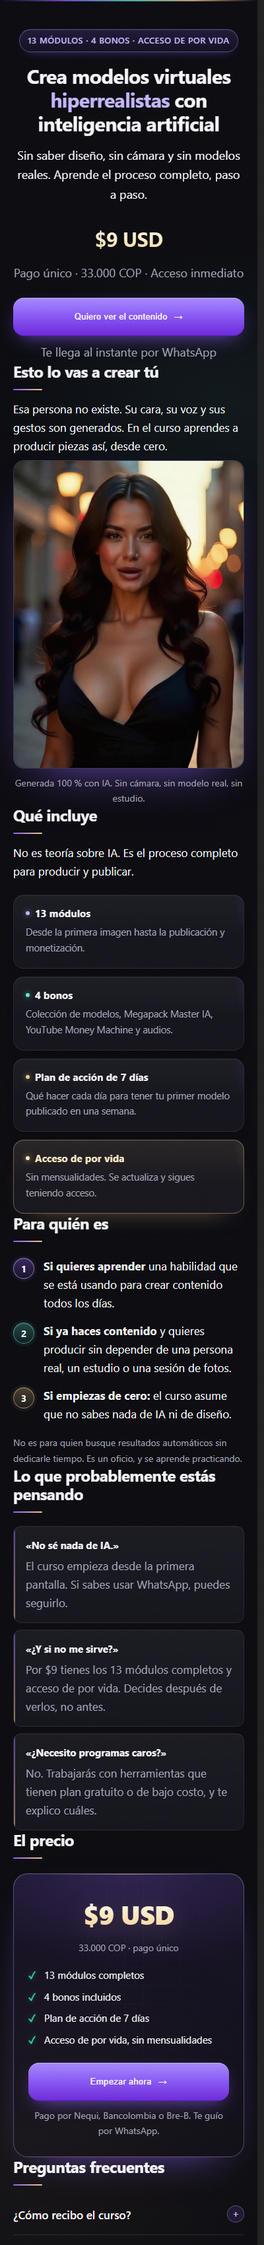
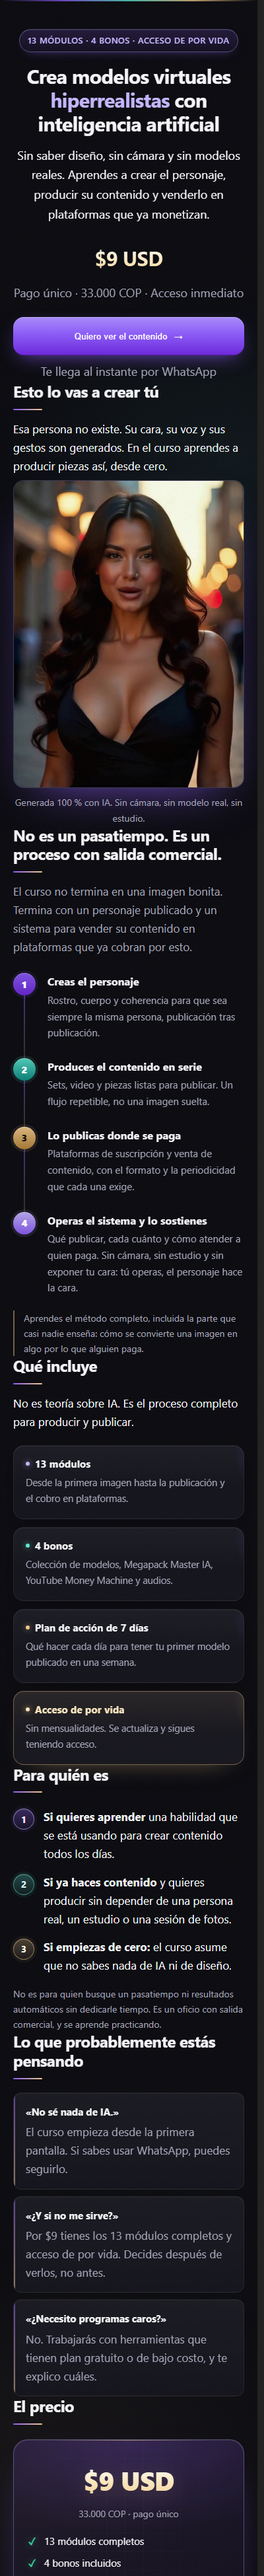
landing: la oferta dice qué se hace con lo aprendido
El mensaje anterior vendía una habilidad ('crea modelos hiperrealistas'). Faltaba el
destino: qué se hace con eso. Ahora la página lo dice en cuatro pasos y sin prometer
ingresos.

- titular: 'aprendes a crear el personaje, producir su contenido y venderlo en
  plataformas que ya monetizan'
- sección nueva: 'No es un pasatiempo. Es un proceso con salida comercial', con el
  pipeline personaje -> contenido en serie -> publicación -> operación, y un hilo
  vertical que los une porque son un proceso, no cuatro ideas
- 'Para quién es': se añade que no es para quien busque un pasatiempo
- precio: se enumera 'módulos de publicación y monetización incluidos'
- FAQ nuevas: '¿esto me va a generar ingresos?' (con 'no garantizamos ingresos', que
  es lo que exige la Ley 1480) y '¿tengo que mostrar mi cara?'
- metadatos alineados con el mensaje

7 aserciones nuevas para que el copy no se pierda en un rediseño. 38 suites, 1869
aserciones, 0 fallas.

diff --git a/next/landing/index.html b/next/landing/index.html
@@ -4,9 +4,9 @@
 <meta charset="utf-8">
 <meta name="viewport" content="width=device-width, initial-scale=1">
 <title>Modelos IA — crea modelos virtuales hiperrealistas con IA</title>
-<meta name="description" content="Aprende a crear modelos virtuales hiperrealistas con inteligencia artificial: 13 módulos, 4 bonos y plan de acción de 7 días. Acceso de por vida.">
+<meta name="description" content="Aprende a crear modelos virtuales con IA y a vender su contenido en plataformas que monetizan. 13 módulos, 4 bonos y plan de acción de 7 días.">
 <meta property="og:title" content="Modelos IA — crea modelos virtuales hiperrealistas con IA">
-<meta property="og:description" content="13 módulos, 4 bonos y un plan de acción de 7 días. Acceso de por vida.">
+<meta property="og:description" content="Del personaje al cobro: crea el modelo, produce el contenido y publícalo donde se paga. 13 módulos y 4 bonos.">
 <meta property="og:type" content="website">
 <meta name="theme-color" content="#0b0b10">
 <style>
@@ -138,6 +138,33 @@ p.fuerte{color:var(--texto)}
 }
 .paso p{color:var(--texto)}
 
+/* ---- pipeline comercial ---- */
+.pipeline{list-style:none;counter-reset:lin;display:grid;gap:0;margin-top:26px;position:relative}
+.pipeline li{
+  position:relative;padding:0 0 26px 52px;counter-increment:lin;
+}
+/* Hilo vertical que une los cuatro pasos: un solo proceso, no cuatro ideas. */
+.pipeline li::before{
+  content:counter(lin);position:absolute;left:0;top:0;
+  width:34px;height:34px;border-radius:50%;display:grid;place-items:center;
+  font-weight:800;font-size:14px;color:#fff;z-index:1;
+  background:linear-gradient(180deg,rgba(139,92,246,.9),rgba(109,40,217,.9));
+  box-shadow:0 0 0 4px rgba(139,92,246,.10), inset 0 1px 0 rgba(255,255,255,.25);
+}
+.pipeline li::after{
+  content:"";position:absolute;left:16px;top:34px;bottom:0;width:2px;
+  background:linear-gradient(180deg,rgba(139,92,246,.45),rgba(240,201,138,.18));
+}
+.pipeline li:last-child{padding-bottom:0}
+.pipeline li:last-child::after{display:none}
+.pipeline strong{display:block;font-size:16px;letter-spacing:.01em;margin-bottom:2px}
+.pipeline p{font-size:15px;margin:0}
+/* El color avanza con el proceso: violeta → cian → oro. */
+.pipeline li:nth-child(2)::before{background:linear-gradient(180deg,rgba(94,234,212,.85),rgba(13,148,136,.85));box-shadow:0 0 0 4px rgba(94,234,212,.10), inset 0 1px 0 rgba(255,255,255,.25)}
+.pipeline li:nth-child(3)::before{background:linear-gradient(180deg,rgba(240,201,138,.9),rgba(180,131,60,.9));color:#1a1206;box-shadow:0 0 0 4px rgba(240,201,138,.10), inset 0 1px 0 rgba(255,255,255,.35)}
+.pipeline li:nth-child(4)::before{background:linear-gradient(180deg,rgba(196,181,253,.9),rgba(139,92,246,.9));box-shadow:0 0 0 4px rgba(196,181,253,.10), inset 0 1px 0 rgba(255,255,255,.3)}
+.nota-proceso{margin-top:22px;padding-left:14px;border-left:2px solid rgba(240,201,138,.45)}
+
 /* ---- objeciones ---- */
 .obj{display:grid;gap:10px;margin-top:20px}
 .obj div{
@@ -263,7 +290,7 @@ dialog .cta[aria-disabled="true"]{opacity:.45;pointer-events:none}
 <header class="hero contenedor">
   <span class="etiqueta">13 módulos · 4 bonos · acceso de por vida</span>
   <h1>Crea modelos virtuales <span class="acento">hiperrealistas</span> con inteligencia artificial</h1>
-  <p class="fuerte">Sin saber diseño, sin cámara y sin modelos reales. Aprende el proceso completo, paso a paso.</p>
+  <p class="fuerte">Sin saber diseño, sin cámara y sin modelos reales. Aprendes a crear el personaje, producir su contenido y venderlo en plataformas que ya monetizan.</p>
 
   <div class="precio-linea">
     <strong>$9 USD</strong>
@@ -296,13 +323,41 @@ dialog .cta[aria-disabled="true"]{opacity:.45;pointer-events:none}
   <p class="fino" style="margin-top:10px;text-align:center">Generada 100 % con IA. Sin cámara, sin modelo real, sin estudio.</p>
 </section>
 
+<!-- ====================== DE LA IMAGEN AL COBRO ====================== -->
+<section class="contenedor" aria-labelledby="proceso-t">
+  <h2 id="proceso-t">No es un pasatiempo. Es un proceso con salida comercial.</h2>
+  <p>El curso no termina en una imagen bonita. Termina con un personaje publicado y un
+  sistema para vender su contenido en plataformas que ya cobran por esto.</p>
+
+  <ol class="pipeline">
+    <li>
+      <strong>Creas el personaje</strong>
+      <p>Rostro, cuerpo y coherencia para que sea siempre la misma persona, publicación tras publicación.</p>
+    </li>
+    <li>
+      <strong>Produces el contenido en serie</strong>
+      <p>Sets, video y piezas listas para publicar. Un flujo repetible, no una imagen suelta.</p>
+    </li>
+    <li>
+      <strong>Lo publicas donde se paga</strong>
+      <p>Plataformas de suscripción y venta de contenido, con el formato y la periodicidad que cada una exige.</p>
+    </li>
+    <li>
+      <strong>Operas el sistema y lo sostienes</strong>
+      <p>Qué publicar, cada cuánto y cómo atender a quien paga. Sin cámara, sin estudio y sin exponer tu cara: tú operas, el personaje hace la cara.</p>
+    </li>
+  </ol>
+
+  <p class="fino nota-proceso">Aprendes el método completo, incluida la parte que casi nadie enseña: cómo se convierte una imagen en algo por lo que alguien paga.</p>
+</section>
+
 <!-- ============================ CONTENIDO ============================ -->
 <section class="contenedor" aria-labelledby="incluye-t">
   <h2 id="incluye-t">Qué incluye</h2>
   <p class="fuerte">No es teoría sobre IA. Es el proceso completo para producir y publicar.</p>
 
   <div class="grid">
-    <div class="tarjeta"><h3>13 módulos</h3><p>Desde la primera imagen hasta la publicación y monetización.</p></div>
+    <div class="tarjeta"><h3>13 módulos</h3><p>Desde la primera imagen hasta la publicación y el cobro en plataformas.</p></div>
     <div class="tarjeta"><h3>4 bonos</h3><p>Colección de modelos, Megapack Master IA, YouTube Money Machine y audios.</p></div>
     <div class="tarjeta"><h3>Plan de acción de 7 días</h3><p>Qué hacer cada día para tener tu primer modelo publicado en una semana.</p></div>
     <div class="tarjeta"><h3>Acceso de por vida</h3><p>Sin mensualidades. Se actualiza y sigues teniendo acceso.</p></div>
@@ -317,7 +372,7 @@ dialog .cta[aria-disabled="true"]{opacity:.45;pointer-events:none}
     <div class="paso"><p><strong>Si ya haces contenido</strong> y quieres producir sin depender de una persona real, un estudio o una sesión de fotos.</p></div>
     <div class="paso"><p><strong>Si empiezas de cero:</strong> el curso asume que no sabes nada de IA ni de diseño.</p></div>
   </div>
-  <p class="fino" style="margin-top:18px">No es para quien busque resultados automáticos sin dedicarle tiempo. Es un oficio, y se aprende practicando.</p>
+  <p class="fino" style="margin-top:18px">No es para quien busque un pasatiempo ni resultados automáticos sin dedicarle tiempo. Es un oficio con salida comercial, y se aprende practicando.</p>
 </section>
 
 <!-- ============================ OBJECIONES ============================ -->
@@ -340,7 +395,8 @@ dialog .cta[aria-disabled="true"]{opacity:.45;pointer-events:none}
       <li>13 módulos completos</li>
       <li>4 bonos incluidos</li>
       <li>Plan de acción de 7 días</li>
-      <li>Acceso de por vida, sin mensualidades</li>
+      <li>Módulos de publicación y monetización incluidos</li>
+        <li>Acceso de por vida, sin mensualidades</li>
     </ul>
     <button class="cta" data-abrir-modal>Empezar ahora <span aria-hidden="true">→</span></button>
     <p class="fino" style="margin-top:10px">Pago por Nequi, Bancolombia o Bre-B. Te guío por WhatsApp.</p>
@@ -352,7 +408,9 @@ dialog .cta[aria-disabled="true"]{opacity:.45;pointer-events:none}
   <h2 id="faq-t">Preguntas frecuentes</h2>
   <details><summary>¿Cómo recibo el curso?</summary><p>Después de confirmar el pago te llega un enlace personal a tu área del curso, con los 13 módulos y los 4 bonos ordenados. Acceso inmediato y sin caducidad.</p></details>
   <details><summary>¿Cuánto tiempo necesito?</summary><p>El plan de 7 días está pensado para 30–45 minutos al día. Si tienes más tiempo, avanzas más rápido.</p></details>
-  <details><summary>¿Es un pago único?</summary><p>Sí. $9 USD, sin mensualidades ni cargos posteriores.</p></details>
+  <details><summary>¿Esto me va a generar ingresos?</summary><p>El curso enseña el proceso completo: crear el personaje, producir el contenido y publicarlo en plataformas que monetizan. Cuánto genere depende de tu constancia y de cómo lo apliques. No garantizamos ingresos.</p></details>
+        <details><summary>¿Tengo que mostrar mi cara?</summary><p>No. El personaje hace la cara; tú operas el sistema desde tu computadora.</p></details>
+        <details><summary>¿Es un pago único?</summary><p>Sí. $9 USD, sin mensualidades ni cargos posteriores.</p></details>
   <details><summary>¿Sirve desde el celular?</summary><p>Sí. Todo el curso se puede hacer desde el teléfono.</p></details>
   <details><summary>¿Quién me responde?</summary><p>Musa, una asistente virtual del equipo, y una persona cuando hace falta. Te lo digo claro: si preguntas si soy un bot, te lo confirmo.</p></details>
 </section>
